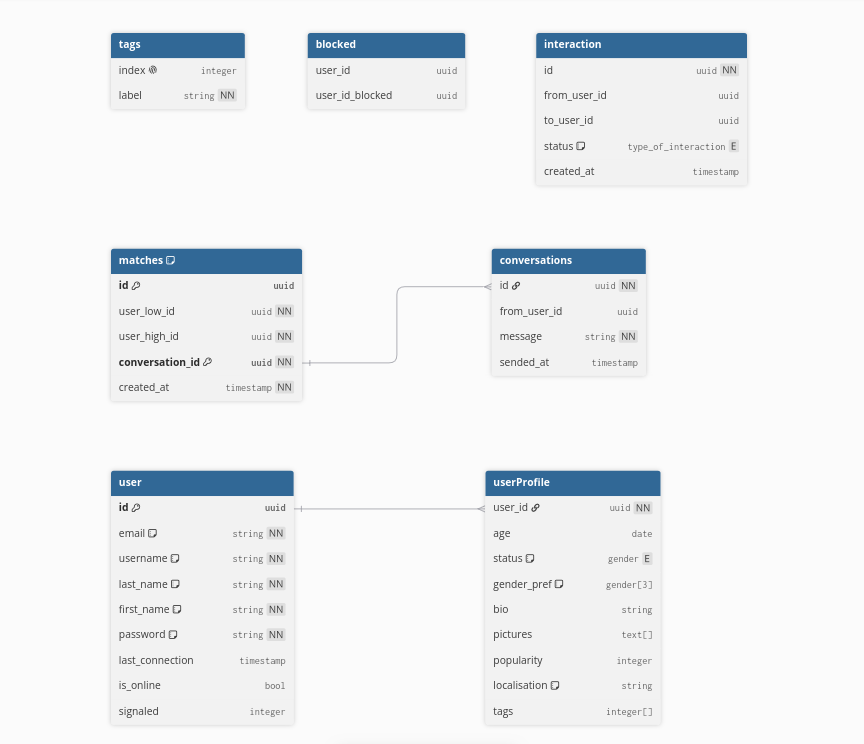
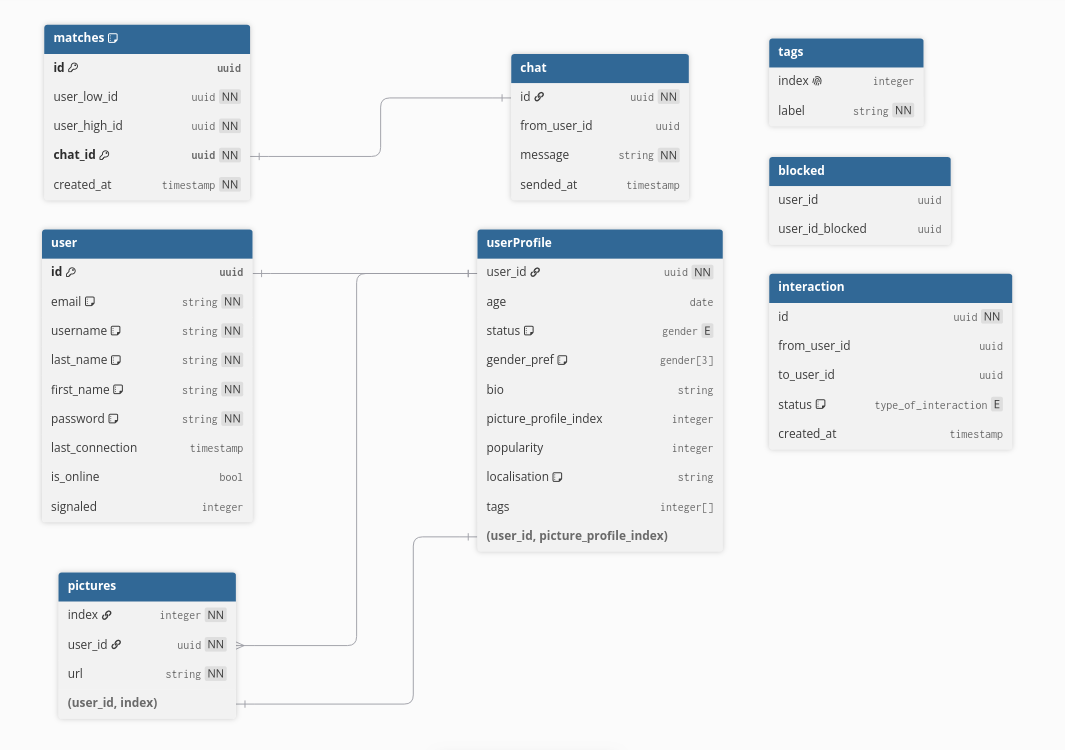
get all blocked + db_diagram update

diff --git a/front-matcha/src/vues/testPageChedo.vue b/front-matcha/src/vues/testPageChedo.vue
@@ -32,7 +32,7 @@ async function post_body() {
 }
 
 async function get_list() {
-    const response = await fetch(`http://localhost:5000/api/${URLAPI}/`);
+    const response = await fetch(`http://localhost:5000/api/${URLAPI}/${user_id.value}/`);
 
     const data = await response.json();
 
@@ -86,9 +86,10 @@ async function delete_item() {
         <p>user_id_blocked<input v-model="user_id_blocked"/></p>
         <button @click=post_body()>send</button>
     </div>
+    user_id = {{ user_id }}
     <button @click=get_list()>GET ALL</button>
     <button @click=delete_item()>delete</button>
-    <div v-for="item in LIST_REF" class="border"><p>=>{{item}}</p></div>
+    <div v-for="item in LIST_REF.data" class="border"><p>=>{{item}}</p></div>
 </template>
 
 <style lang="css" scoped>

diff --git a/back-matcha/services/blocked_service.py b/back-matcha/services/blocked_service.py
@@ -2,7 +2,7 @@ from sqlalchemy import text
 from sqlalchemy.exc import IntegrityError
 from database import db
 
-from utils.exceptions import AppError
+from utils.exceptions import AppError, NotFoundError
 import traceback
 
 def insert_relation(user_id, user_id_blocked):
@@ -73,19 +73,35 @@ def delete_relation(user_id, user_id_blocked):
         db.session.rollback()
         raise
 
-def get_all_blocked_user_id(user_id):
+def get_all_blocked_user(user_id):
     try:
         result = db.session.execute(
             text("""
-            SELECT user_id_blocked FROM blocked
-            WHERE user_id = :user_id
+            SELECT u.id, u.username, u.last_name, u.first_name
+            FROM blocked b
+            JOIN users u
+            ON b.user_id_blocked = u.user_id
+            WHERE b.user_id = :user_id
             """),
             {
                 "user_id" : user_id
             }
         )
 
-        relations = result.mapping().all()
+        relations = result.mappings().all()
 
         if relations is None:
             db.session.rollback()
+            raise NotFoundError
+
+        return [
+            {
+                "username": row["username"],
+                "last_name": row["last_name"],
+                "first_name": row["first_name"]
+            }
+            for row in result.mappings().all()
+        ]
+
+    except Exception:
+        raise

diff --git a/back-matcha/routes/blocked_bp.py b/back-matcha/routes/blocked_bp.py
@@ -64,6 +64,15 @@ def unblock_a_profile():
 
     return success(result, 200)
 
-@blocked_bp.route("/<uuid:user_id>", methods=["GET"])
+@blocked_bp.route("/<uuid:user_id>/", methods=["GET"])
 def get_all_blocked_user(user_id):
-    blocked_list = s.
+
+    user_id = validate_uuid(
+        user_id,
+        "user_id"
+    )
+
+    #Récupère la liste des UUIDs bloqués
+    blocked_list_uuid = s.get_all_blocked_user(user_id)
+
+    return success(blocked_list_uuid, 200)
